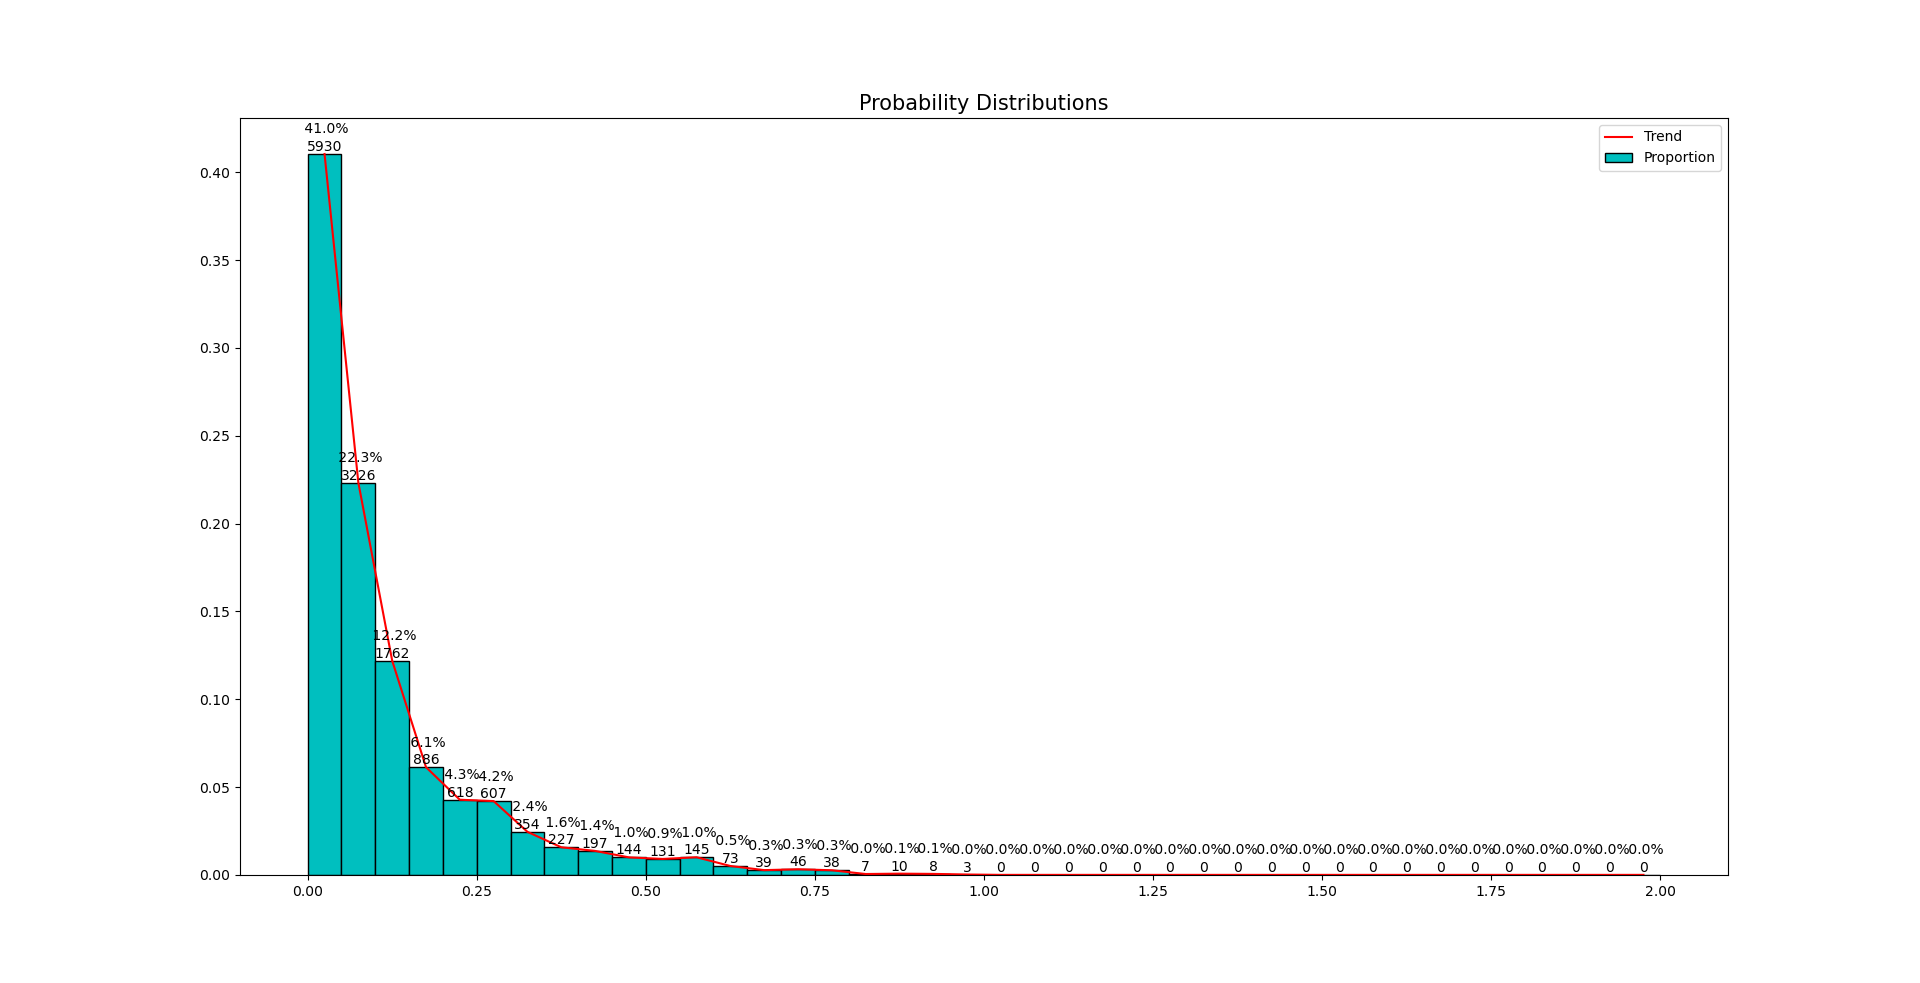
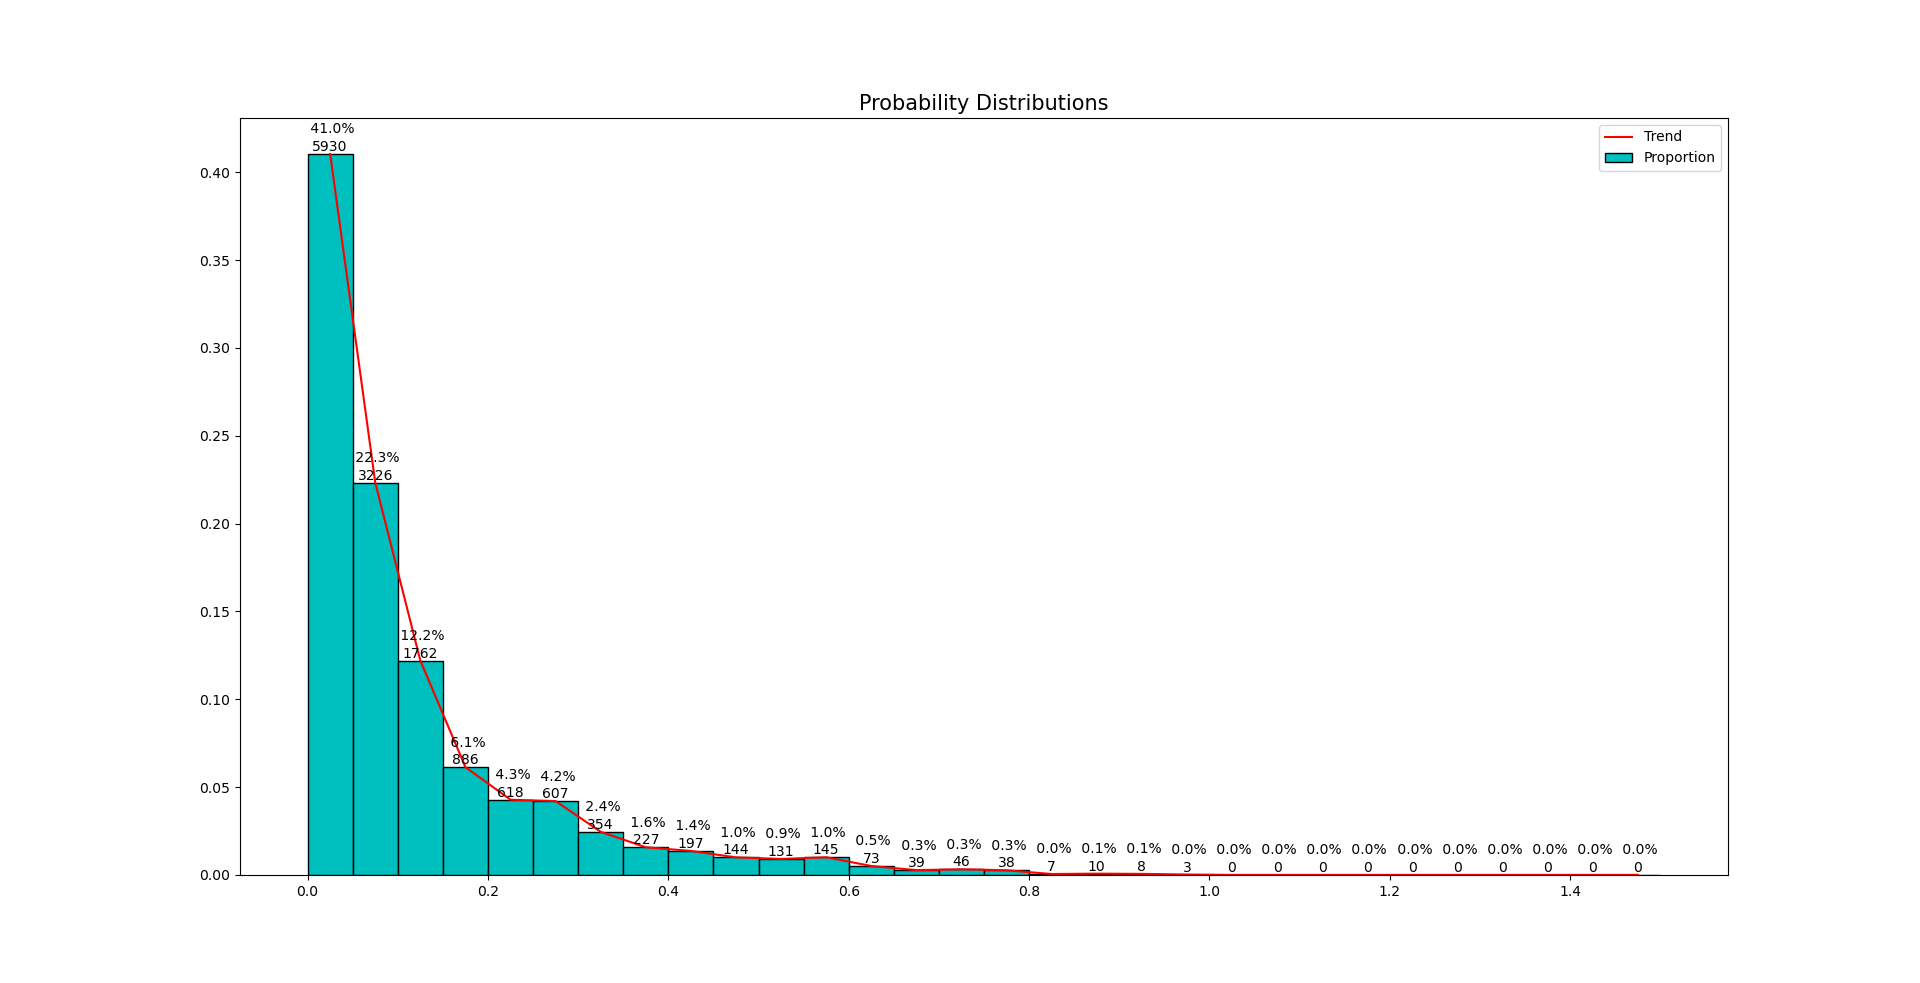
nearly final

Changed region(s): [[0.1562, 0.1221, 0.875, 0.9156]]

diff --git a/Main_Project/10/main.py b/Main_Project/10/main.py
@@ -48,7 +48,7 @@ print(f'testing_data_input_lane: {testing_data_input_lane.shape}')
 print(f'testing_data_output: {testing_data_output.shape}')
 
 # 模式选取
-mode_switch = np.array([1, 1, 1, 1, 1])
+mode_switch = np.array([0, 0, 0, 0, 1])
 vector_map_switch = 1
 check_source_switch = 0
 
@@ -639,9 +639,9 @@ if mode_switch[3] == 1:
 if mode_switch[4] == 1:
     print("分析偏差")
     all_loss = np.load("all_loss.npy")
-    print(all_loss.shape)
-    num = 41
-    loss_area = np.linspace(0, 2, num=num)
+    print("loss max:", all_loss.max())
+    num = 31
+    loss_area = np.linspace(0, 1.5, num=num)
     loss_num = np.zeros([num - 1, 1])
 
     for i in range(all_loss.shape[0]):
